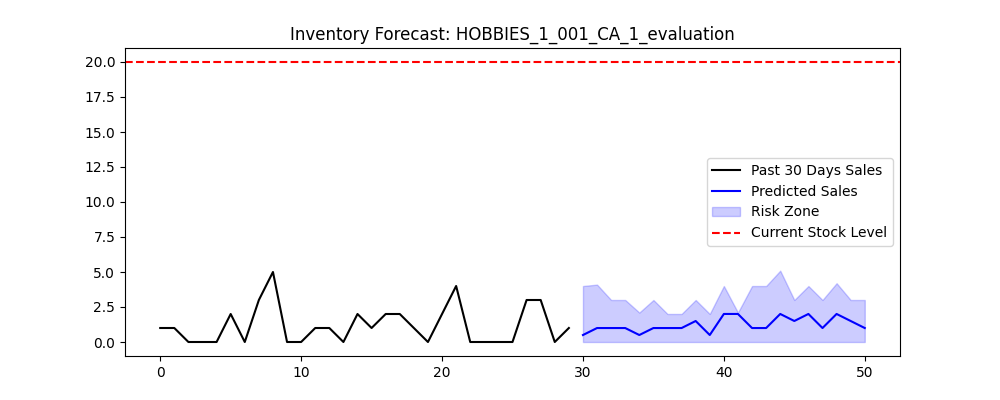
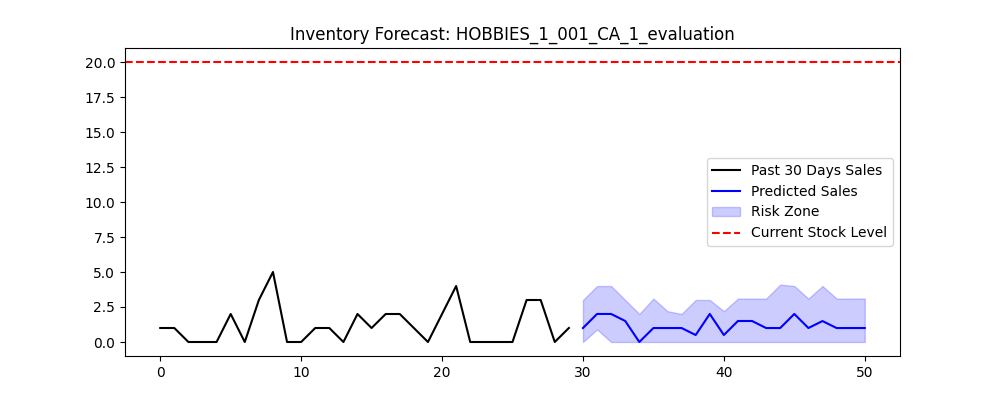
add setup instructions

diff --git a/setup.md b/setup.md
@@ -1,0 +1,183 @@
+AI Inventory Engine — Local Setup Guide (Windows)
+
+This project is an AI-powered inventory forecasting engine built using:
+
+Python
+Amazon Chronos forecasting models
+PyTorch
+Gradio UI
+
+It predicts future demand and helps identify potential stock shortages using historical retail sales data.
+
+Features
+AI demand forecasting
+Reorder point prediction
+Inventory risk visualization
+Interactive Gradio dashboard
+Walmart M5 dataset integration
+Amazon Chronos Transformer forecasting
+Tech Stack
+Python
+PyTorch
+Chronos Forecasting
+Gradio
+Pandas
+NumPy
+Matplotlib
+System Requirements
+
+Recommended:
+
+Windows 10/11
+Python 3.10–3.12
+8GB+ RAM
+Stable internet connection
+5GB+ free disk space
+
+CPU mode works fine.
+
+GPU is optional.
+
+1. Install Python
+
+Download Python:
+
+Python Official Website
+
+During installation:
+
+✅ CHECK Add Python to PATH
+✅ Select Install Now
+
+Verify installation:
+
+python --version
+pip --version
+2. Clone Repository
+
+Install Git if needed:
+
+Git for Windows
+
+Clone repo:
+
+git clone https://github.com/HimakshP/AI-INVENTORY_ENGINE.git
+cd AI-INVENTORY_ENGINE
+3. Create Virtual Environment
+python -m venv venv
+
+Activate it:
+
+venv\Scripts\activate
+
+You should now see:
+
+(venv)
+4. Install Dependencies
+
+Upgrade pip first:
+
+python -m pip install --upgrade pip
+
+Install requirements:
+
+pip install -r requirements.txt
+5. Fix Chronos Installation
+
+If you get errors related to ChronosPipeline, install the correct Chronos package:
+
+pip uninstall chronos -y
+
+Then:
+
+pip install git+https://github.com/amazon-science/chronos-forecasting.git
+6. Download Dataset
+
+This project uses the Walmart M5 Forecasting dataset.
+
+Download from Kaggle:
+
+M5 Forecasting Dataset
+
+Extract these files into the project root folder:
+
+calendar.csv
+sales_train_evaluation.csv
+sell_prices.csv
+
+Your project folder should look like:
+
+AI-INVENTORY_ENGINE/
+│
+├── app.py
+├── requirements.txt
+├── calendar.csv
+├── sales_train_evaluation.csv
+├── sell_prices.csv
+├── README.md
+└── venv/
+7. Run the Application
+
+Start the app:
+
+python app.py
+
+First launch may take several minutes because:
+
+Chronos model downloads
+Torch initializes
+Dataset preprocessing runs
+
+Eventually you should see:
+
+Running on local URL: http://127.0.0.1:7860
+
+Open that URL in your browser.
+
+8. Using the App
+Select a product
+Enter current inventory
+View:
+stock risk analysis
+reorder recommendations
+AI demand forecast graph
+Common Errors & Fixes
+Error: No module named chronos
+
+Run:
+
+pip install git+https://github.com/amazon-science/chronos-forecasting.git
+Error: ChronosPipeline import failed
+
+Wrong package installed.
+
+Fix:
+
+pip uninstall chronos -y
+pip install git+https://github.com/amazon-science/chronos-forecasting.git
+Error: No such file or directory
+
+Make sure:
+
+calendar.csv
+sales_train_evaluation.csv
+sell_prices.csv
+
+are inside the project folder.
+
+Error: torch cuda
+
+This project runs on CPU by default.
+
+No CUDA setup required.
+
+Notes
+Initial model download can exceed 1GB.
+CPU inference may take 10–40 seconds per prediction.
+Only the first 2000 dataset rows are loaded for local performance.
+Dataset Attribution
+
+Dataset:
+
+Source:
+Kaggle M5 Dataset
